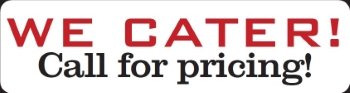
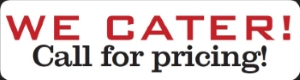
Smaller cater image

diff --git a/menu.html b/menu.html
@@ -1,4 +1,4 @@
-<!DOCTYPE html><html lang="en"><head><title>Brickhouse BBQ | (805) 772-0111 | Morro Bay, CA</title><meta name="description" content="Brickhouse BBQ serves delicious BBQ in beautiful downtown Morro Bay, California."><link rel="icon" type="image/png" href="favicon.png"><link rel="stylesheet" href="/stylesheets/style.css"><link rel="publisher" href="https://plus.google.com/109405622815150143673"><meta name="format-detection" content="telephone=no"><script async defer src="https://apis.google.com/js/platform.js?publisherid=109405622815150143673"></script></head><body><div class="header"><div class="header-bar">939 MAIN ST, MORRO BAY, CA 93442 &#x7C; (805) 772-0111 &#x7C; OPEN MON-SAT 11AM-8PM, SUN 11AM-7PM</div><a href="/"><img src="./images/brickhouse_logo.png" alt="Brickhouse BBQ: Smokin' Hot Since 1997" width="435" height="218" class="logo"><br/><br/><img src="./images/we_cater.jpg" alt="We Cater" width="350" height="93" class="cater"></a></div><div class="border-bottom"><div class="container text-center"><ul class="nav"><li> <a href="/">HOME</a></li><li> <a href="/about.html">OUR STORY</a></li><li> <a href="/menu.html">THE MENU</a></li><li> <a href="/location.html">LOCATION</a></li></ul></div></div><div class="container text-center"><div class="hero-text">Our menu features fresh BBQ'd meats and homemade sides and sauces</div></div><div class="border-bottom"><div class="container menu"><table><tr><td><div class="menu-heading">COMBO PLATES</div></td><td></td></tr><tr><td class="menu-item">2 Meats &amp; 2 Sides</td><td class="menu-price">$11.00</td><td></td></tr><tr><td class="menu-item">3 Meats &amp; 2 Sides</td><td class="menu-price">$13.00</td></tr><tr><td class="menu-heading">SANDWICHES</td><td></td></tr><tr><td> <div class="menu-item">Tri Tip</div><div class="menu-sub">USDA Choice Tri Tip Grilled Over Red Oak</div></td><td class="menu-price">$9.00</td><td></td></tr><tr><td> <div class="menu-item">Hickory Smoked Pulled Pork</div><div class="menu-sub">Low &amp; Slow Smoked for 13 Hours and Basted with Our Original BBQ Sauce</div></td><td class="menu-price">$8.00</td><td></td></tr><tr><td> <div class="menu-item">Grilled Chicken</div><div class="menu-sub">Red Oak Grilled Chicken Seasoned with Our Dry Rub</div></td><td class="menu-price">$8.00</td><td></td></tr><tr><td class="menu-heading">*RIBS</td><td></td></tr><tr><td> <div class="menu-sub">Seasoned with Our Dry Rub and Slow Smoked with Hickory Wood</div></td><td></td></tr><tr><td> <div class="menu-item">Individual Rib</div></td><td class="menu-price">$2.50</td><td></td></tr><tr><td> <div class="menu-item">Half Rack</div></td><td class="menu-price">$14.00</td><td></td></tr><tr><td> <div class="menu-item">Whole Rack</div></td><td class="menu-price">$27.00</td><td></td></tr><tr><td class="menu-heading">SIDES</td><td></td></tr><tr><td> <div class="menu-item">Garlic Bread</div></td><td class="menu-price">$2.50</td><td></td></tr><tr><td> <div class="menu-item">*Garlic-Parmesan Green Beans</div></td><td class="menu-price">$4.50</td><td></td></tr><tr><td> <div class="menu-item">*Coleslaw</div></td><td></td></tr><tr><td> <div class="menu-sub">SM.</div></td><td class="menu-price">$2.50</td><td></td></tr><tr><td> <div class="menu-sub">LRG.</div></td><td class="menu-price">$5.00</td><td></td></tr><tr><td> <div class="menu-item">*Tri Tip Ranch Style Beans</div></td><td> </td></tr><tr><td> <div class="menu-sub">SM.</div></td><td class="menu-price">$2.50</td><td></td></tr><tr><td> <div class="menu-sub">LRG.</div></td><td class="menu-price">$5.00</td><td></td></tr><tr><td> <div class="menu-heading">SALADS</div><div class="menu-sub">Spring Mix with Bacon, Feta, Purple Onion, Bell Pepper, &amp; Tomato</div><div class="menu-sub">Dressings:Balsamic or Ranch</div></td><td></td></tr><tr><td> <div class="menu-item">Large</div></td><td class="menu-price">$8.00</td><td> </td></tr><tr><td> <div class="menu-item">Small</div></td><td class="menu-price">$4.00</td><td> </td></tr><tr><td> <div class="menu-item">Add Tri Tip</div></td><td class="menu-price">$3.00</td><td> </td></tr><tr><td> <div class="menu-item">Add Chicken</div></td><td class="menu-price">$2.00</td><td> </td></tr><tr><td> <div class="menu-heading">CORN BREAD</div></td><td> </td></tr><tr><td> <div class="menu-item">With Honey Butter</div></td><td class="menu-price">$2.00</td><td></td></tr><tr><td> <div class="menu-item">With Ranch Beans</div></td><td class="menu-price">$3.50</td><td></td></tr><tr><td class="menu-heading">DRINKS</td><td> </td></tr><tr><td> <div class="menu-item">Fountain &amp; Bottled Soft Drinks &bull; Rotating Beer Taps</div></td><td></td></tr><tr><td> <div class="menu-item">Bottled Beer Selection &bull; Local Wines</div></td><td></td></tr><tr><td class="menu-heading">WHOLE TRI TIP</td><td> </td></tr><tr><td class="menu-item">Please provide one hour notice</td><td class="menu-price">$Market Price</td><td></td></tr><tr><td class="menu-heading">SAUCES</td><td> </td></tr><tr><td class="menu-item">1 Jar</td><td class="menu-price">$8.00</td><td></td></tr><tr><td class="menu-item">3 Jars</td><td class="menu-price">$20.00</td><td></td></tr><tr><td class="menu-heading">MEAT PER POUND</td><td> </td></tr><tr><td><div class="menu-item">Tri Tip</div><div class="menu-sub">USDA Choice Tri Tip Grilled Over Red Oak</div></td><td class="menu-price">$Market Price</td><td></td></tr><tr><td><div class="menu-item">Hickory Smoked Pulled Pork</div><div class="menu-sub">Low & Slow Smoked for 13 Hours and Basted with Our Original BBQ Sauce</div></td><td class="menu-price">$Market Price</td><td></td></tr><tr><td><div class="menu-item">Grilled Chicken</div><div class="menu-sub">Red Oak Grilled Chicken Seasoned with Our Dry Rub</div></td><td class="menu-price">$Market Price</td><td></td></tr></table><table><tr><td> <div class="menu-item">*Gluten Free</div></td><td></td></tr></table></div></div><footer><div class="container text-center"><div class="footer-body">WE CATER!  Call for pricing!</div><div class="footer-body">939 MAIN ST, MORRO BAY, CA 93442  |  (805) 772-0111  |  OPEN MON-SAT 11AM-8PM, SUN 11AM-7PM</div><div class="footer-small">Copyright &copy;2015 Brickhouse BBQ</div></div></footer><script>(function(i,s,o,g,r,a,m){i['GoogleAnalyticsObject']=r;i[r]=i[r]||function(){
+<!DOCTYPE html><html lang="en"><head><title>Brickhouse BBQ | (805) 772-0111 | Morro Bay, CA</title><meta name="description" content="Brickhouse BBQ serves delicious BBQ in beautiful downtown Morro Bay, California."><link rel="icon" type="image/png" href="favicon.png"><link rel="stylesheet" href="/stylesheets/style.css"><link rel="publisher" href="https://plus.google.com/109405622815150143673"><meta name="format-detection" content="telephone=no"><script async defer src="https://apis.google.com/js/platform.js?publisherid=109405622815150143673"></script></head><body><div class="header"><div class="header-bar">939 MAIN ST, MORRO BAY, CA 93442 &#x7C; (805) 772-0111 &#x7C; OPEN MON-SAT 11AM-8PM, SUN 11AM-7PM</div><a href="/"><img src="./images/brickhouse_logo.png" alt="Brickhouse BBQ: Smokin' Hot Since 1997" width="435" height="218" class="logo"><br/><br/><img src="./images/we_cater.jpg" alt="We Cater" width="300" height="80" class="cater"></a></div><div class="border-bottom"><div class="container text-center"><ul class="nav"><li> <a href="/">HOME</a></li><li> <a href="/about.html">OUR STORY</a></li><li> <a href="/menu.html">THE MENU</a></li><li> <a href="/location.html">LOCATION</a></li></ul></div></div><div class="container text-center"><div class="hero-text">Our menu features fresh BBQ'd meats and homemade sides and sauces</div></div><div class="border-bottom"><div class="container menu"><table><tr><td><div class="menu-heading">COMBO PLATES</div></td><td></td></tr><tr><td class="menu-item">2 Meats &amp; 2 Sides</td><td class="menu-price">$11.00</td><td></td></tr><tr><td class="menu-item">3 Meats &amp; 2 Sides</td><td class="menu-price">$13.00</td></tr><tr><td class="menu-heading">SANDWICHES</td><td></td></tr><tr><td> <div class="menu-item">Tri Tip</div><div class="menu-sub">USDA Choice Tri Tip Grilled Over Red Oak</div></td><td class="menu-price">$9.00</td><td></td></tr><tr><td> <div class="menu-item">Hickory Smoked Pulled Pork</div><div class="menu-sub">Low &amp; Slow Smoked for 13 Hours and Basted with Our Original BBQ Sauce</div></td><td class="menu-price">$8.00</td><td></td></tr><tr><td> <div class="menu-item">Grilled Chicken</div><div class="menu-sub">Red Oak Grilled Chicken Seasoned with Our Dry Rub</div></td><td class="menu-price">$8.00</td><td></td></tr><tr><td class="menu-heading">*RIBS</td><td></td></tr><tr><td> <div class="menu-sub">Seasoned with Our Dry Rub and Slow Smoked with Hickory Wood</div></td><td></td></tr><tr><td> <div class="menu-item">Individual Rib</div></td><td class="menu-price">$2.50</td><td></td></tr><tr><td> <div class="menu-item">Half Rack</div></td><td class="menu-price">$14.00</td><td></td></tr><tr><td> <div class="menu-item">Whole Rack</div></td><td class="menu-price">$27.00</td><td></td></tr><tr><td class="menu-heading">SIDES</td><td></td></tr><tr><td> <div class="menu-item">Garlic Bread</div></td><td class="menu-price">$2.50</td><td></td></tr><tr><td> <div class="menu-item">*Garlic-Parmesan Green Beans</div></td><td class="menu-price">$4.50</td><td></td></tr><tr><td> <div class="menu-item">*Coleslaw</div></td><td></td></tr><tr><td> <div class="menu-sub">SM.</div></td><td class="menu-price">$2.50</td><td></td></tr><tr><td> <div class="menu-sub">LRG.</div></td><td class="menu-price">$5.00</td><td></td></tr><tr><td> <div class="menu-item">*Tri Tip Ranch Style Beans</div></td><td> </td></tr><tr><td> <div class="menu-sub">SM.</div></td><td class="menu-price">$2.50</td><td></td></tr><tr><td> <div class="menu-sub">LRG.</div></td><td class="menu-price">$5.00</td><td></td></tr><tr><td> <div class="menu-heading">SALADS</div><div class="menu-sub">Spring Mix with Bacon, Feta, Purple Onion, Bell Pepper, &amp; Tomato</div><div class="menu-sub">Dressings:Balsamic or Ranch</div></td><td></td></tr><tr><td> <div class="menu-item">Large</div></td><td class="menu-price">$8.00</td><td> </td></tr><tr><td> <div class="menu-item">Small</div></td><td class="menu-price">$4.00</td><td> </td></tr><tr><td> <div class="menu-item">Add Tri Tip</div></td><td class="menu-price">$3.00</td><td> </td></tr><tr><td> <div class="menu-item">Add Chicken</div></td><td class="menu-price">$2.00</td><td> </td></tr><tr><td> <div class="menu-heading">CORN BREAD</div></td><td> </td></tr><tr><td> <div class="menu-item">With Honey Butter</div></td><td class="menu-price">$2.00</td><td></td></tr><tr><td> <div class="menu-item">With Ranch Beans</div></td><td class="menu-price">$3.50</td><td></td></tr><tr><td class="menu-heading">DRINKS</td><td> </td></tr><tr><td> <div class="menu-item">Fountain &amp; Bottled Soft Drinks &bull; Rotating Beer Taps</div></td><td></td></tr><tr><td> <div class="menu-item">Bottled Beer Selection &bull; Local Wines</div></td><td></td></tr><tr><td class="menu-heading">WHOLE TRI TIP</td><td> </td></tr><tr><td class="menu-item">Please provide one hour notice</td><td class="menu-price">$Market Price</td><td></td></tr><tr><td class="menu-heading">SAUCES</td><td> </td></tr><tr><td class="menu-item">1 Jar</td><td class="menu-price">$8.00</td><td></td></tr><tr><td class="menu-item">3 Jars</td><td class="menu-price">$20.00</td><td></td></tr><tr><td class="menu-heading">MEAT PER POUND</td><td> </td></tr><tr><td><div class="menu-item">Tri Tip</div><div class="menu-sub">USDA Choice Tri Tip Grilled Over Red Oak</div></td><td class="menu-price">$Market Price</td><td></td></tr><tr><td><div class="menu-item">Hickory Smoked Pulled Pork</div><div class="menu-sub">Low & Slow Smoked for 13 Hours and Basted with Our Original BBQ Sauce</div></td><td class="menu-price">$Market Price</td><td></td></tr><tr><td><div class="menu-item">Grilled Chicken</div><div class="menu-sub">Red Oak Grilled Chicken Seasoned with Our Dry Rub</div></td><td class="menu-price">$Market Price</td><td></td></tr></table><table><tr><td> <div class="menu-item">*Gluten Free</div></td><td></td></tr></table></div></div><footer><div class="container text-center"><div class="footer-body">WE CATER!  Call for pricing!</div><div class="footer-body">939 MAIN ST, MORRO BAY, CA 93442  |  (805) 772-0111  |  OPEN MON-SAT 11AM-8PM, SUN 11AM-7PM</div><div class="footer-small">Copyright &copy;2015 Brickhouse BBQ</div></div></footer><script>(function(i,s,o,g,r,a,m){i['GoogleAnalyticsObject']=r;i[r]=i[r]||function(){
 (i[r].q=i[r].q||[]).push(arguments)},i[r].l=1*new Date();a=s.createElement(o),
 m=s.getElementsByTagName(o)[0];a.async=1;a.src=g;m.parentNode.insertBefore(a,m)
 })(window,document,'script','//www.google-analytics.com/analytics.js','ga');

diff --git a/stylesheets/style.css b/stylesheets/style.css
@@ -1,1 +1,1 @@
-@import url(http://fonts.googleapis.com/css?family=Arbutus+Slab|Orbitron:700);/*! normalize.css v2.1.3 | MIT License | git.io/normalize */article,aside,details,figcaption,figure,footer,header,hgroup,main,nav,section,summary{display:block}audio,canvas,video{display:inline-block}audio:not([controls]){display:none;height:0}[hidden],template{display:none}html{font-family:sans-serif;-ms-text-size-adjust:100%;-webkit-text-size-adjust:100%}body{margin:0}a{background:transparent}a:focus{outline:thin dotted}a:active,a:hover{outline:0}h1{font-size:2em;margin:0.67em 0}abbr[title]{border-bottom:1px dotted}b,strong{font-weight:bold}dfn{font-style:italic}hr{-moz-box-sizing:content-box;box-sizing:content-box;height:0}mark{background:#ff0;color:#000}code,kbd,pre,samp{font-family:monospace, serif;font-size:1em}pre{white-space:pre-wrap}q{quotes:"\201C" "\201D" "\2018" "\2019"}small{font-size:80%}sub,sup{font-size:75%;line-height:0;position:relative;vertical-align:baseline}sup{top:-0.5em}sub{bottom:-0.25em}img{border:0}svg:not(:root){overflow:hidden}figure{margin:0}fieldset{border:1px solid #c0c0c0;margin:0 2px;padding:0.35em 0.625em 0.75em}legend{border:0;padding:0}button,input,select,textarea{font-family:inherit;font-size:100%;margin:0}button,input{line-height:normal}button,select{text-transform:none}button,html input[type="button"],input[type="reset"],input[type="submit"]{-webkit-appearance:button;cursor:pointer}button[disabled],html input[disabled]{cursor:default}input[type="checkbox"],input[type="radio"]{box-sizing:border-box;padding:0}input[type="search"]{-webkit-appearance:textfield;-moz-box-sizing:content-box;-webkit-box-sizing:content-box;box-sizing:content-box}input[type="search"]::-webkit-search-cancel-button,input[type="search"]::-webkit-search-decoration{-webkit-appearance:none}button::-moz-focus-inner,input::-moz-focus-inner{border:0;padding:0}textarea{overflow:auto;vertical-align:top}table{border-collapse:collapse;border-spacing:0}body{background-color:#222222;font-family:'Arbutus Slab',serif;letter-spacing:1px;color:#ddd;font-size:14px}a{color:#aaa;text-decoration:none}a:visited{color:#aaa}a:hover{color:#8C1D19}.container{width:793px;margin:0 auto}.text-center{text-align:center}.header{height:481px;background:transparent url(../images/brickhouse_bricks.jpg) no-repeat center top;background-size:cover;text-align:center}.header-bar{background-color:rgba(34,34,34,0.5);padding-top:10px;padding-bottom:10px;font-size:12px}img.logo{width:435px;height:218px;margin-top:110px}img.cater{width:350px;height:93px}ul.nav{font-size:24px;margin-top:40px;margin-bottom:40px;margin-left:0;padding-left:0;white-space:nowrap}ul.nav li{display:inline;list-style-type:none;margin-right:50px}ul.nav li:last-child{margin-right:0}ul.nav a,ul.nav a:visited,ul.nav a:hover{text-decoration:none;color:#ddd;padding:3px}ul.nav a:hover{border-bottom:solid 7px #8C1D19}.border-bottom{border-bottom:2px solid #444444}.hero-text{font-size:34px;margin-top:100px;margin-bottom:100px}.text-body{margin-bottom:100px}footer{color:#999999}.footer-body{font-size:12px;margin-top:20px;margin-bottom:20px}.footer-small{font-size:10px;margin-bottom:40px}.menu table{width:100%;margin-bottom:100px}.menu .menu-heading{font-size:24px;font-family:'Orbitron',sans-serif;font-weight:700;color:#8C1D19;padding-top:20px}.menu .menu-item{font-size:18px;padding-top:5px}.menu .menu-price{font-size:18px;padding-top:5px}.menu .menu-sub{font-size:12px;font-family:Helvetica,sans-serif;color:#aaa}
+@import url(http://fonts.googleapis.com/css?family=Arbutus+Slab|Orbitron:700);/*! normalize.css v2.1.3 | MIT License | git.io/normalize */article,aside,details,figcaption,figure,footer,header,hgroup,main,nav,section,summary{display:block}audio,canvas,video{display:inline-block}audio:not([controls]){display:none;height:0}[hidden],template{display:none}html{font-family:sans-serif;-ms-text-size-adjust:100%;-webkit-text-size-adjust:100%}body{margin:0}a{background:transparent}a:focus{outline:thin dotted}a:active,a:hover{outline:0}h1{font-size:2em;margin:0.67em 0}abbr[title]{border-bottom:1px dotted}b,strong{font-weight:bold}dfn{font-style:italic}hr{-moz-box-sizing:content-box;box-sizing:content-box;height:0}mark{background:#ff0;color:#000}code,kbd,pre,samp{font-family:monospace, serif;font-size:1em}pre{white-space:pre-wrap}q{quotes:"\201C" "\201D" "\2018" "\2019"}small{font-size:80%}sub,sup{font-size:75%;line-height:0;position:relative;vertical-align:baseline}sup{top:-0.5em}sub{bottom:-0.25em}img{border:0}svg:not(:root){overflow:hidden}figure{margin:0}fieldset{border:1px solid #c0c0c0;margin:0 2px;padding:0.35em 0.625em 0.75em}legend{border:0;padding:0}button,input,select,textarea{font-family:inherit;font-size:100%;margin:0}button,input{line-height:normal}button,select{text-transform:none}button,html input[type="button"],input[type="reset"],input[type="submit"]{-webkit-appearance:button;cursor:pointer}button[disabled],html input[disabled]{cursor:default}input[type="checkbox"],input[type="radio"]{box-sizing:border-box;padding:0}input[type="search"]{-webkit-appearance:textfield;-moz-box-sizing:content-box;-webkit-box-sizing:content-box;box-sizing:content-box}input[type="search"]::-webkit-search-cancel-button,input[type="search"]::-webkit-search-decoration{-webkit-appearance:none}button::-moz-focus-inner,input::-moz-focus-inner{border:0;padding:0}textarea{overflow:auto;vertical-align:top}table{border-collapse:collapse;border-spacing:0}body{background-color:#222222;font-family:'Arbutus Slab',serif;letter-spacing:1px;color:#ddd;font-size:14px}a{color:#aaa;text-decoration:none}a:visited{color:#aaa}a:hover{color:#8C1D19}.container{width:793px;margin:0 auto}.text-center{text-align:center}.header{height:481px;background:transparent url(../images/brickhouse_bricks.jpg) no-repeat center top;background-size:cover;text-align:center}.header-bar{background-color:rgba(34,34,34,0.5);padding-top:10px;padding-bottom:10px;font-size:12px}img.logo{width:435px;height:218px;margin-top:110px}img.cater{width:300px;height:80px}ul.nav{font-size:24px;margin-top:40px;margin-bottom:40px;margin-left:0;padding-left:0;white-space:nowrap}ul.nav li{display:inline;list-style-type:none;margin-right:50px}ul.nav li:last-child{margin-right:0}ul.nav a,ul.nav a:visited,ul.nav a:hover{text-decoration:none;color:#ddd;padding:3px}ul.nav a:hover{border-bottom:solid 7px #8C1D19}.border-bottom{border-bottom:2px solid #444444}.hero-text{font-size:34px;margin-top:100px;margin-bottom:100px}.text-body{margin-bottom:100px}footer{color:#999999}.footer-body{font-size:12px;margin-top:20px;margin-bottom:20px}.footer-small{font-size:10px;margin-bottom:40px}.menu table{width:100%;margin-bottom:100px}.menu .menu-heading{font-size:24px;font-family:'Orbitron',sans-serif;font-weight:700;color:#8C1D19;padding-top:20px}.menu .menu-item{font-size:18px;padding-top:5px}.menu .menu-price{font-size:18px;padding-top:5px}.menu .menu-sub{font-size:12px;font-family:Helvetica,sans-serif;color:#aaa}

diff --git a/location.html b/location.html
@@ -1,4 +1,4 @@
-<!DOCTYPE html><html lang="en"><head><title>Brickhouse BBQ | (805) 772-0111 | Morro Bay, CA</title><meta name="description" content="Brickhouse BBQ serves delicious BBQ in beautiful downtown Morro Bay, California."><link rel="icon" type="image/png" href="favicon.png"><link rel="stylesheet" href="/stylesheets/style.css"><link rel="publisher" href="https://plus.google.com/109405622815150143673"><meta name="format-detection" content="telephone=no"><script async defer src="https://apis.google.com/js/platform.js?publisherid=109405622815150143673"></script></head><body><div class="header"><div class="header-bar">939 MAIN ST, MORRO BAY, CA 93442 &#x7C; (805) 772-0111 &#x7C; OPEN MON-SAT 11AM-8PM, SUN 11AM-7PM</div><a href="/"><img src="./images/brickhouse_logo.png" alt="Brickhouse BBQ: Smokin' Hot Since 1997" width="435" height="218" class="logo"><br/><br/><img src="./images/we_cater.jpg" alt="We Cater" width="350" height="93" class="cater"></a></div><div class="border-bottom"><div class="container text-center"><ul class="nav"><li> <a href="/">HOME</a></li><li> <a href="/about.html">OUR STORY</a></li><li> <a href="/menu.html">THE MENU</a></li><li> <a href="/location.html">LOCATION</a></li></ul></div></div><div class="container text-center"><div class="hero-text">Follow the delicious, open-pit smoke to Brickhouse BBQ!</div></div><div class="border-bottom"><div class="container"><div class="text-body text-center"><p>Brickhouse BBQ is open Monday - Saturday from 11am to 8pm, and Sunday from 11am to 7pm.</p><p>Come visit us at:</p><p><div class="address">939 Main Street</div><div class="address">MORRO BAY, CA 93442</div><div class="phone">P: (805) 772-0111</div></p><p><a href="https://goo.gl/maps/9cSSW">Click here for a link to Google Maps.</a></p></div></div></div><footer><div class="container text-center"><div class="footer-body">WE CATER!  Call for pricing!</div><div class="footer-body">939 MAIN ST, MORRO BAY, CA 93442  |  (805) 772-0111  |  OPEN MON-SAT 11AM-8PM, SUN 11AM-7PM</div><div class="footer-small">Copyright &copy;2015 Brickhouse BBQ</div></div></footer><script>(function(i,s,o,g,r,a,m){i['GoogleAnalyticsObject']=r;i[r]=i[r]||function(){
+<!DOCTYPE html><html lang="en"><head><title>Brickhouse BBQ | (805) 772-0111 | Morro Bay, CA</title><meta name="description" content="Brickhouse BBQ serves delicious BBQ in beautiful downtown Morro Bay, California."><link rel="icon" type="image/png" href="favicon.png"><link rel="stylesheet" href="/stylesheets/style.css"><link rel="publisher" href="https://plus.google.com/109405622815150143673"><meta name="format-detection" content="telephone=no"><script async defer src="https://apis.google.com/js/platform.js?publisherid=109405622815150143673"></script></head><body><div class="header"><div class="header-bar">939 MAIN ST, MORRO BAY, CA 93442 &#x7C; (805) 772-0111 &#x7C; OPEN MON-SAT 11AM-8PM, SUN 11AM-7PM</div><a href="/"><img src="./images/brickhouse_logo.png" alt="Brickhouse BBQ: Smokin' Hot Since 1997" width="435" height="218" class="logo"><br/><br/><img src="./images/we_cater.jpg" alt="We Cater" width="300" height="80" class="cater"></a></div><div class="border-bottom"><div class="container text-center"><ul class="nav"><li> <a href="/">HOME</a></li><li> <a href="/about.html">OUR STORY</a></li><li> <a href="/menu.html">THE MENU</a></li><li> <a href="/location.html">LOCATION</a></li></ul></div></div><div class="container text-center"><div class="hero-text">Follow the delicious, open-pit smoke to Brickhouse BBQ!</div></div><div class="border-bottom"><div class="container"><div class="text-body text-center"><p>Brickhouse BBQ is open Monday - Saturday from 11am to 8pm, and Sunday from 11am to 7pm.</p><p>Come visit us at:</p><p><div class="address">939 Main Street</div><div class="address">MORRO BAY, CA 93442</div><div class="phone">P: (805) 772-0111</div></p><p><a href="https://goo.gl/maps/9cSSW">Click here for a link to Google Maps.</a></p></div></div></div><footer><div class="container text-center"><div class="footer-body">WE CATER!  Call for pricing!</div><div class="footer-body">939 MAIN ST, MORRO BAY, CA 93442  |  (805) 772-0111  |  OPEN MON-SAT 11AM-8PM, SUN 11AM-7PM</div><div class="footer-small">Copyright &copy;2015 Brickhouse BBQ</div></div></footer><script>(function(i,s,o,g,r,a,m){i['GoogleAnalyticsObject']=r;i[r]=i[r]||function(){
 (i[r].q=i[r].q||[]).push(arguments)},i[r].l=1*new Date();a=s.createElement(o),
 m=s.getElementsByTagName(o)[0];a.async=1;a.src=g;m.parentNode.insertBefore(a,m)
 })(window,document,'script','//www.google-analytics.com/analytics.js','ga');

diff --git a/about.html b/about.html
@@ -1,4 +1,4 @@
-<!DOCTYPE html><html lang="en"><head><title>Brickhouse BBQ | (805) 772-0111 | Morro Bay, CA</title><meta name="description" content="Brickhouse BBQ serves delicious BBQ in beautiful downtown Morro Bay, California."><link rel="icon" type="image/png" href="favicon.png"><link rel="stylesheet" href="/stylesheets/style.css"><link rel="publisher" href="https://plus.google.com/109405622815150143673"><meta name="format-detection" content="telephone=no"><script async defer src="https://apis.google.com/js/platform.js?publisherid=109405622815150143673"></script></head><body><div class="header"><div class="header-bar">939 MAIN ST, MORRO BAY, CA 93442 &#x7C; (805) 772-0111 &#x7C; OPEN MON-SAT 11AM-8PM, SUN 11AM-7PM</div><a href="/"><img src="./images/brickhouse_logo.png" alt="Brickhouse BBQ: Smokin' Hot Since 1997" width="435" height="218" class="logo"><br/><br/><img src="./images/we_cater.jpg" alt="We Cater" width="350" height="93" class="cater"></a></div><div class="border-bottom"><div class="container text-center"><ul class="nav"><li> <a href="/">HOME</a></li><li> <a href="/about.html">OUR STORY</a></li><li> <a href="/menu.html">THE MENU</a></li><li> <a href="/location.html">LOCATION</a></li></ul></div></div><div class="container text-center"><div class="hero-text">Brickhouse BBQ has been servin' up delicious BBQ since 1997</div></div><div class="border-bottom"><div class="container"><div class="text-body">The Brickhouse crew has been servin' up homestyle BBQ at festivals and fairs since 1997. We pride ourselves on quality food, and use only the freshest ingredients. We've been perfecting our recipes over many years and make our own award-winning BBQ sauces. Stop on by and let us show you why we're the best BBQ on the central coast of California.</div></div></div><footer><div class="container text-center"><div class="footer-body">WE CATER!  Call for pricing!</div><div class="footer-body">939 MAIN ST, MORRO BAY, CA 93442  |  (805) 772-0111  |  OPEN MON-SAT 11AM-8PM, SUN 11AM-7PM</div><div class="footer-small">Copyright &copy;2015 Brickhouse BBQ</div></div></footer><script>(function(i,s,o,g,r,a,m){i['GoogleAnalyticsObject']=r;i[r]=i[r]||function(){
+<!DOCTYPE html><html lang="en"><head><title>Brickhouse BBQ | (805) 772-0111 | Morro Bay, CA</title><meta name="description" content="Brickhouse BBQ serves delicious BBQ in beautiful downtown Morro Bay, California."><link rel="icon" type="image/png" href="favicon.png"><link rel="stylesheet" href="/stylesheets/style.css"><link rel="publisher" href="https://plus.google.com/109405622815150143673"><meta name="format-detection" content="telephone=no"><script async defer src="https://apis.google.com/js/platform.js?publisherid=109405622815150143673"></script></head><body><div class="header"><div class="header-bar">939 MAIN ST, MORRO BAY, CA 93442 &#x7C; (805) 772-0111 &#x7C; OPEN MON-SAT 11AM-8PM, SUN 11AM-7PM</div><a href="/"><img src="./images/brickhouse_logo.png" alt="Brickhouse BBQ: Smokin' Hot Since 1997" width="435" height="218" class="logo"><br/><br/><img src="./images/we_cater.jpg" alt="We Cater" width="300" height="80" class="cater"></a></div><div class="border-bottom"><div class="container text-center"><ul class="nav"><li> <a href="/">HOME</a></li><li> <a href="/about.html">OUR STORY</a></li><li> <a href="/menu.html">THE MENU</a></li><li> <a href="/location.html">LOCATION</a></li></ul></div></div><div class="container text-center"><div class="hero-text">Brickhouse BBQ has been servin' up delicious BBQ since 1997</div></div><div class="border-bottom"><div class="container"><div class="text-body">The Brickhouse crew has been servin' up homestyle BBQ at festivals and fairs since 1997. We pride ourselves on quality food, and use only the freshest ingredients. We've been perfecting our recipes over many years and make our own award-winning BBQ sauces. Stop on by and let us show you why we're the best BBQ on the central coast of California.</div></div></div><footer><div class="container text-center"><div class="footer-body">WE CATER!  Call for pricing!</div><div class="footer-body">939 MAIN ST, MORRO BAY, CA 93442  |  (805) 772-0111  |  OPEN MON-SAT 11AM-8PM, SUN 11AM-7PM</div><div class="footer-small">Copyright &copy;2015 Brickhouse BBQ</div></div></footer><script>(function(i,s,o,g,r,a,m){i['GoogleAnalyticsObject']=r;i[r]=i[r]||function(){
 (i[r].q=i[r].q||[]).push(arguments)},i[r].l=1*new Date();a=s.createElement(o),
 m=s.getElementsByTagName(o)[0];a.async=1;a.src=g;m.parentNode.insertBefore(a,m)
 })(window,document,'script','//www.google-analytics.com/analytics.js','ga');

diff --git a/index.html b/index.html
@@ -1,4 +1,4 @@
-<!DOCTYPE html><html lang="en"><head><title>Brickhouse BBQ | (805) 772-0111 | Morro Bay, CA</title><meta name="description" content="Brickhouse BBQ serves delicious BBQ in beautiful downtown Morro Bay, California."><link rel="icon" type="image/png" href="favicon.png"><link rel="stylesheet" href="/stylesheets/style.css"><link rel="publisher" href="https://plus.google.com/109405622815150143673"><meta name="format-detection" content="telephone=no"><script async defer src="https://apis.google.com/js/platform.js?publisherid=109405622815150143673"></script></head><body><div class="header"><div class="header-bar">939 MAIN ST, MORRO BAY, CA 93442 &#x7C; (805) 772-0111 &#x7C; OPEN MON-SAT 11AM-8PM, SUN 11AM-7PM</div><a href="/"><img src="./images/brickhouse_logo.png" alt="Brickhouse BBQ: Smokin' Hot Since 1997" width="435" height="218" class="logo"><br/><br/><img src="./images/we_cater.jpg" alt="We Cater" width="350" height="93" class="cater"></a></div><div class="border-bottom"><div class="container text-center"><ul class="nav"><li> <a href="/">HOME</a></li><li> <a href="/about.html">OUR STORY</a></li><li> <a href="/menu.html">THE MENU</a></li><li> <a href="/location.html">LOCATION</a></li></ul></div></div><div class="container text-center"><div class="hero-text">Delicious homestyle BBQ in beautiful downtown Morro Bay, CA</div></div><div class="border-bottom"><div class="container"><div class="text-body">Brickhouse BBQ is located in beautiful Morro Bay on the Central Coast of California. We're family owned and operated and serve delicious, homestyle BBQ and sides. Our meats are always cooked fresh and our breads are baked and delivered daily. Come enjoy traditional BBQ where the locals do...at Brickhouse BBQ!</div></div></div><footer><div class="container text-center"><div class="footer-body">WE CATER!  Call for pricing!</div><div class="footer-body">939 MAIN ST, MORRO BAY, CA 93442  |  (805) 772-0111  |  OPEN MON-SAT 11AM-8PM, SUN 11AM-7PM</div><div class="footer-small">Copyright &copy;2015 Brickhouse BBQ</div></div></footer><script>(function(i,s,o,g,r,a,m){i['GoogleAnalyticsObject']=r;i[r]=i[r]||function(){
+<!DOCTYPE html><html lang="en"><head><title>Brickhouse BBQ | (805) 772-0111 | Morro Bay, CA</title><meta name="description" content="Brickhouse BBQ serves delicious BBQ in beautiful downtown Morro Bay, California."><link rel="icon" type="image/png" href="favicon.png"><link rel="stylesheet" href="/stylesheets/style.css"><link rel="publisher" href="https://plus.google.com/109405622815150143673"><meta name="format-detection" content="telephone=no"><script async defer src="https://apis.google.com/js/platform.js?publisherid=109405622815150143673"></script></head><body><div class="header"><div class="header-bar">939 MAIN ST, MORRO BAY, CA 93442 &#x7C; (805) 772-0111 &#x7C; OPEN MON-SAT 11AM-8PM, SUN 11AM-7PM</div><a href="/"><img src="./images/brickhouse_logo.png" alt="Brickhouse BBQ: Smokin' Hot Since 1997" width="435" height="218" class="logo"><br/><br/><img src="./images/we_cater.jpg" alt="We Cater" width="300" height="80" class="cater"></a></div><div class="border-bottom"><div class="container text-center"><ul class="nav"><li> <a href="/">HOME</a></li><li> <a href="/about.html">OUR STORY</a></li><li> <a href="/menu.html">THE MENU</a></li><li> <a href="/location.html">LOCATION</a></li></ul></div></div><div class="container text-center"><div class="hero-text">Delicious homestyle BBQ in beautiful downtown Morro Bay, CA</div></div><div class="border-bottom"><div class="container"><div class="text-body">Brickhouse BBQ is located in beautiful Morro Bay on the Central Coast of California. We're family owned and operated and serve delicious, homestyle BBQ and sides. Our meats are always cooked fresh and our breads are baked and delivered daily. Come enjoy traditional BBQ where the locals do...at Brickhouse BBQ!</div></div></div><footer><div class="container text-center"><div class="footer-body">WE CATER!  Call for pricing!</div><div class="footer-body">939 MAIN ST, MORRO BAY, CA 93442  |  (805) 772-0111  |  OPEN MON-SAT 11AM-8PM, SUN 11AM-7PM</div><div class="footer-small">Copyright &copy;2015 Brickhouse BBQ</div></div></footer><script>(function(i,s,o,g,r,a,m){i['GoogleAnalyticsObject']=r;i[r]=i[r]||function(){
 (i[r].q=i[r].q||[]).push(arguments)},i[r].l=1*new Date();a=s.createElement(o),
 m=s.getElementsByTagName(o)[0];a.async=1;a.src=g;m.parentNode.insertBefore(a,m)
 })(window,document,'script','//www.google-analytics.com/analytics.js','ga');
